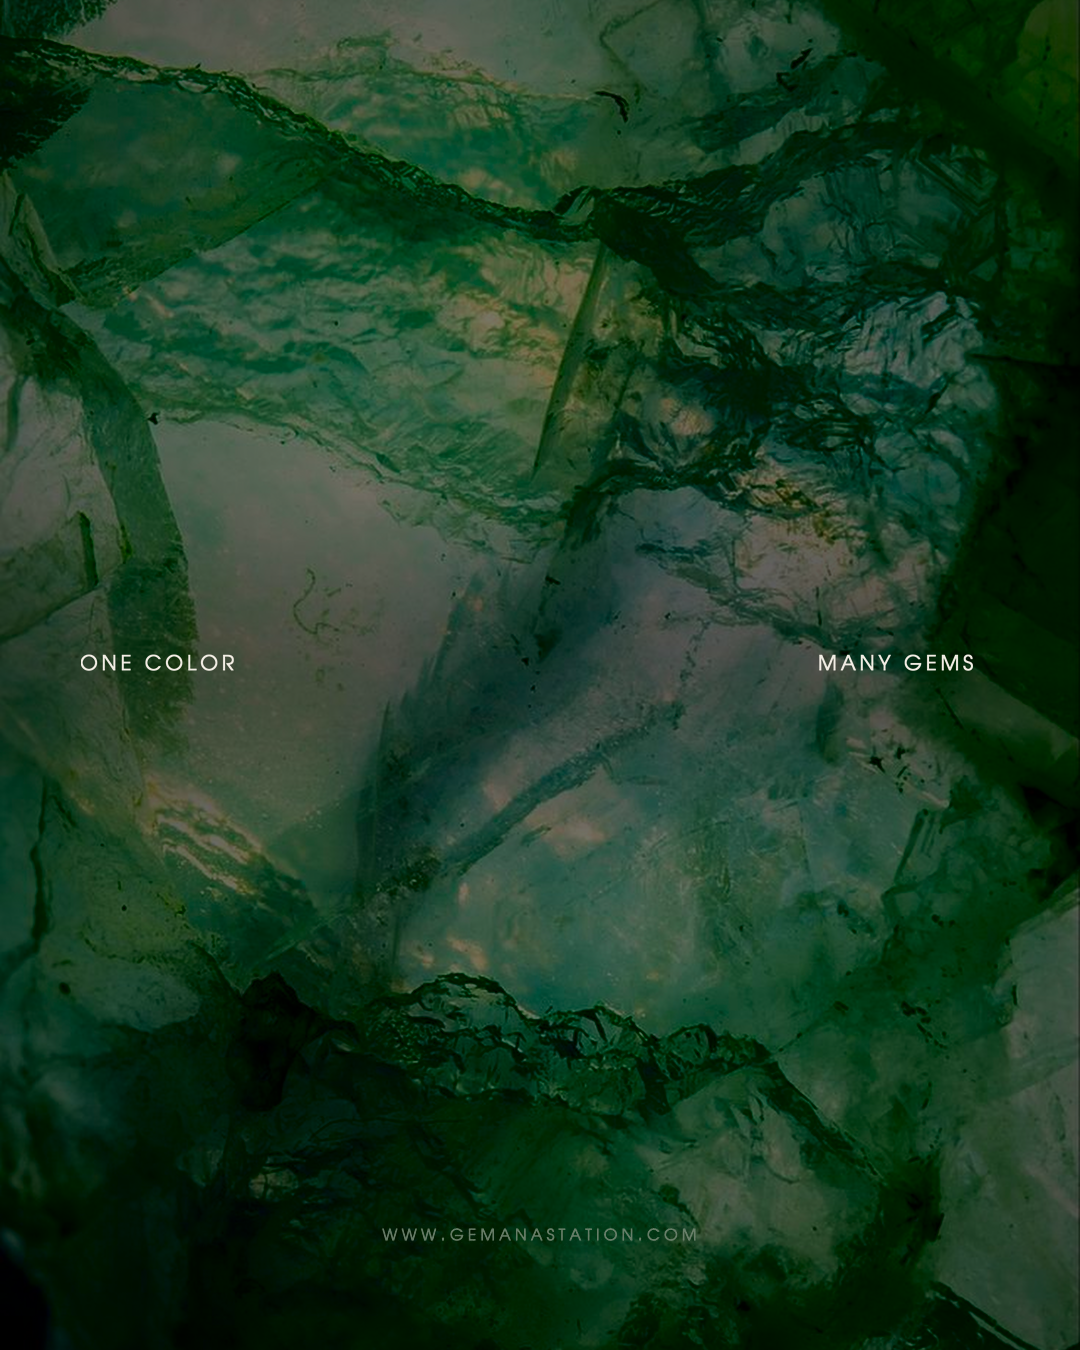
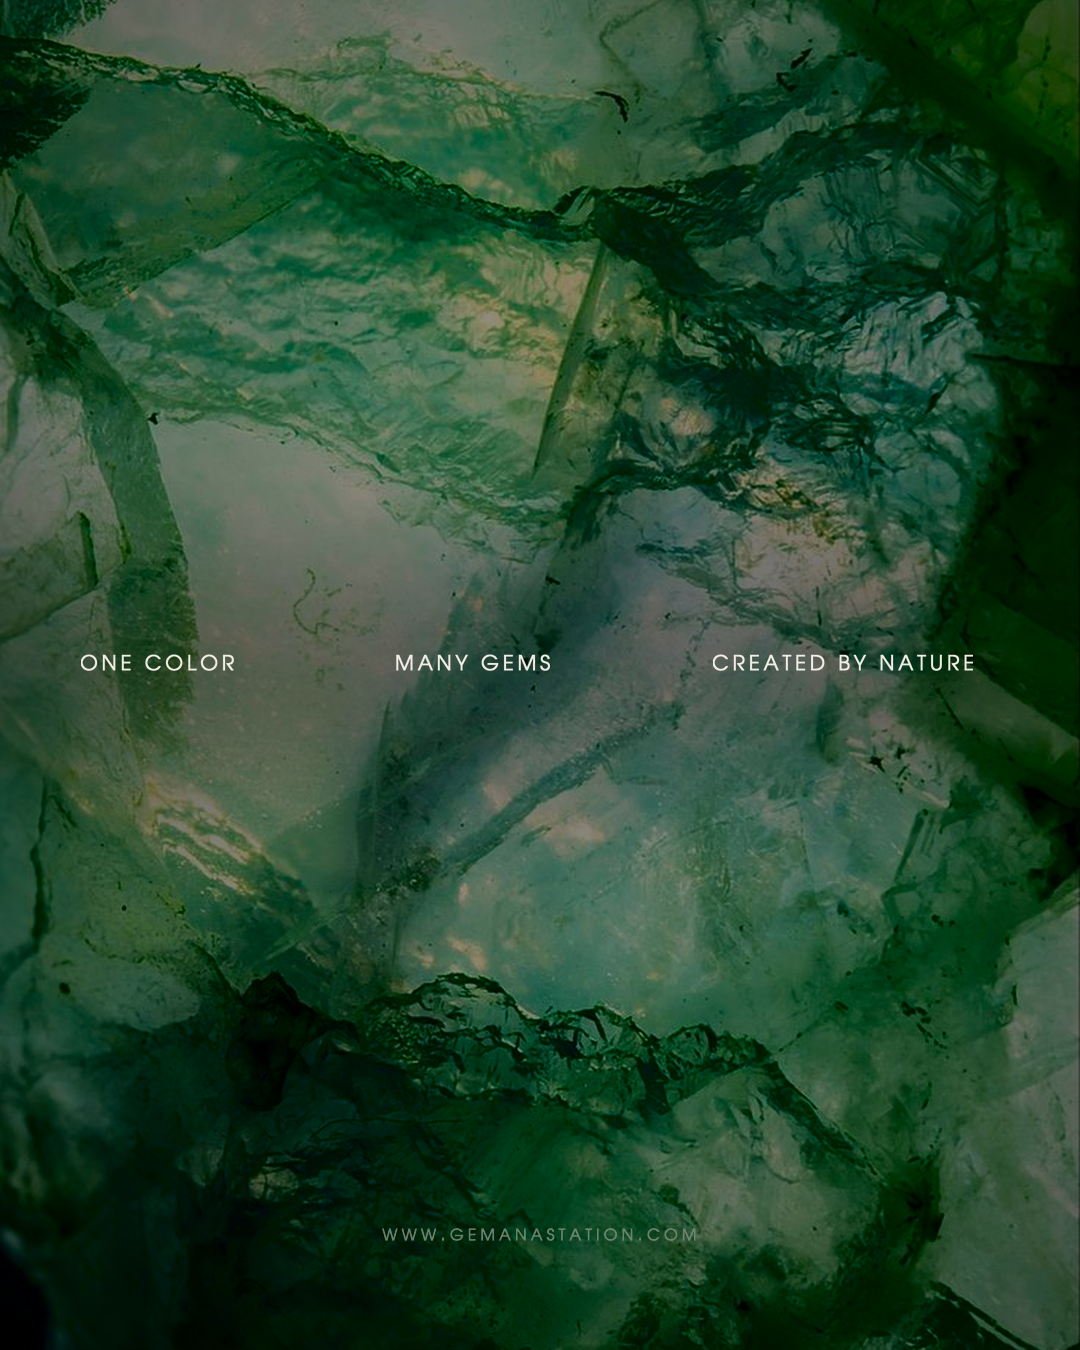
GEMS IN EVERY COLOR cover: lighter grade, third caption CREATED BY NATURE
Claude-Session: https://claude.ai/code/session_01DPJpbdE4xE8Jg3JGMEEyZy

diff --git a/gem-anastation-reels/gems_in_every_color/tools/cover.py b/gem-anastation-reels/gems_in_every_color/tools/cover.py
@@ -1,5 +1,6 @@
 """GEMS IN EVERY COLOR — cover (1080×1350), second cover type: full-bleed
-photo, two small AvantGarde captions on the central horizontal (as the
+photo, three small AvantGarde captions on the central horizontal (left / centre /
+right, read as one line) (as the
 approved emerald-on-fabric layout: cap top y 654, left caption from x 81,
 right caption ending at x 972, 20.5 px, tracking 3.8 px), website line by the
 cover rule (text top 1228, tinted to its own band of the photo).
@@ -18,7 +19,7 @@ ROOT = Path(__file__).resolve().parents[1]
 FONT = ImageFont.truetype(str(ROOT.parent / "founder" / "fonts" / "URWGothic-Book.otf"), 20.5)
 TRACK, CAP_TOP = 3.8, 654
 IVORY, NAVY = np.array([243, 238, 229.]), np.array([16, 37, 55.])
-CAPS = [("ONE COLOR", "left", 81), ("MANY GEMS", "right", 972)]
+CAPS = [("ONE COLOR", "left", 81), ("MANY GEMS", "center", 540), ("CREATED BY NATURE", "right", 972)]
 CHROMA = 1.2          # chroma gain after darkening
 CROP_Y = 0.42          # where the 4:5 window sits in the taller photo (0 top, 1 bottom)
 
@@ -53,7 +54,7 @@ im = im[y0:y0 + 1350] / 255
 im = np.clip(im, 0, 1)
 lab = cv2.cvtColor(im, cv2.COLOR_RGB2LAB)
 L = lab[..., 0] / 100
-lab[..., 0] = 100 * 0.52 * L ** 1.6
+lab[..., 0] = 100 * 0.62 * L ** 1.45
 lab[..., 1:] *= CHROMA
 im = np.clip(cv2.cvtColor(lab, cv2.COLOR_LAB2RGB), 0, 1)
 yy, xx = np.mgrid[0:1350, 0:1080].astype(np.float32)
@@ -63,10 +64,15 @@ im *= (1 - 0.35 * np.clip(r, 0, 1) ** 2)[..., None]
 im *= (1 - 0.28 * np.exp(-((yy - 665) / 150) ** 2))[..., None]
 out = np.clip(im * 255, 0, 255)
 
-for text, align, edge in CAPS:
-    a = ink(text)
+# Outer captions on the edges; the middle one sits with equal gaps on both
+# sides, so the three read as one line (a geometric centre would crowd the
+# long right caption).
+inks = [ink(t) for t, _, _ in CAPS]
+ws = [a.shape[1] for a in inks]
+gap = ((CAPS[2][2] - CAPS[0][2] + 1) - sum(ws)) / 2
+for (text, align, edge), a in zip(CAPS, inks):
     h, w = a.shape
-    x0 = edge if align == "left" else edge - w + 1
+    x0 = {"left": edge, "right": edge - w + 1, "center": round(CAPS[0][2] + ws[0] + gap)}[align]
     reg = out[CAP_TOP:CAP_TOP + h, x0:x0 + w]
     out[CAP_TOP:CAP_TOP + h, x0:x0 + w] = reg * (1 - a[..., None]) + IVORY * a[..., None]
     print(f"{text}: x {x0}-{x0 + w - 1}, band lum {reg.mean() / 255:.2f}")
